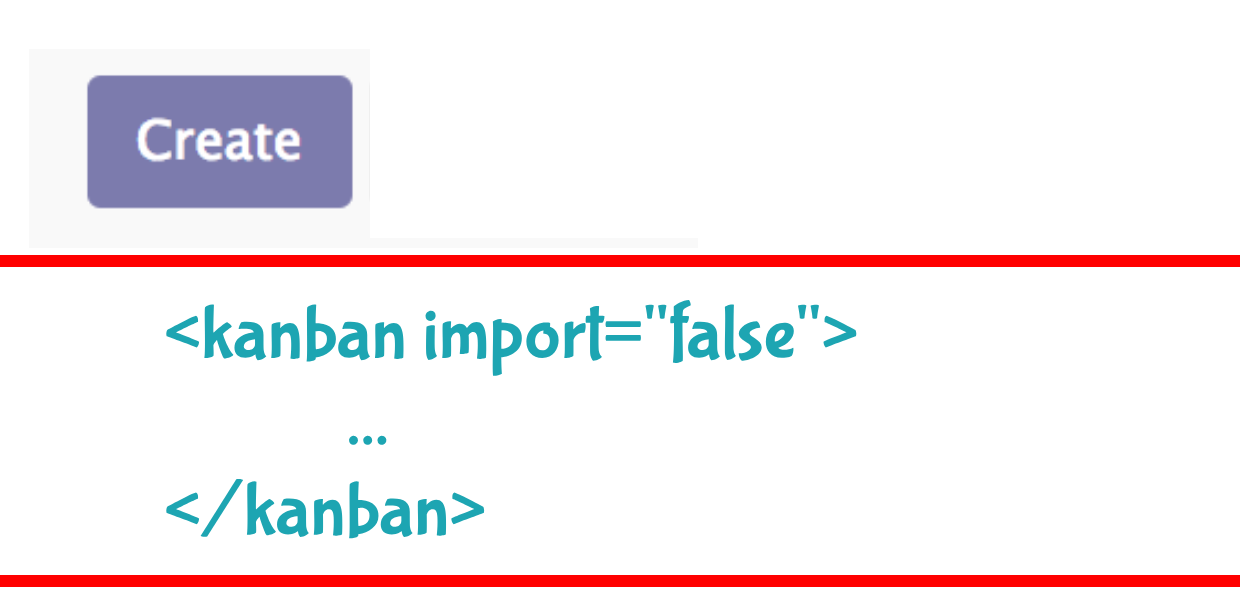
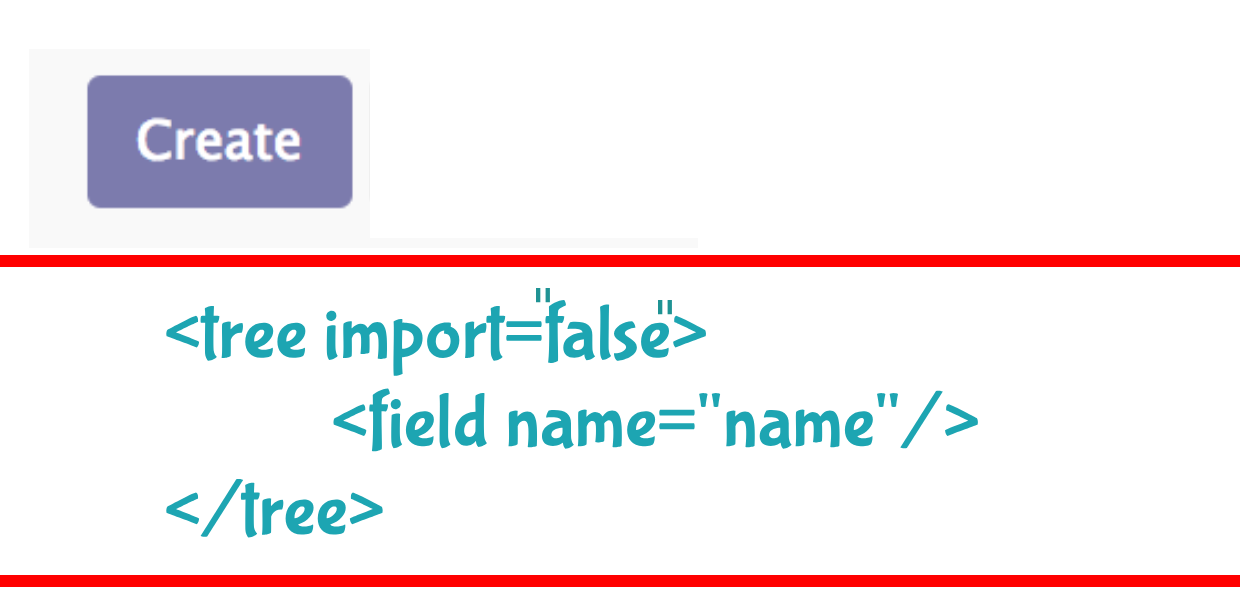
Push on Git of Version 9.0 on Import Button Attribute

diff --git a/display_import_button/static/description/index.html b/display_import_button/static/description/index.html
@@ -27,3 +27,29 @@
         </div>
     </div>
 </section>
+
+<section class="oe_container oe_dark">
+    <div class="oe_row oe_spaced">
+        <h2 class="oe_slogan" style="color:#875A7B;">SLife Organization</h2>
+        <h3 class="oe_slogan">Make Your Life Simple (Simplify your Life)</h3>
+        <h4 class="oe_slogan">Abidjan, Cote d'Ivoire</h4>
+        <div class="text-justify">
+          <table style="margin:auto;">
+            <tr>
+              <td style="padding-right: 5%;">
+                <a
+                class="btn btn-primary btn-lg mt8" style="color: #FFFFFF !important;border-radius: 0;"
+                href="mailto:frejusarnaud@gmail.com" target="_blank"><i
+                class="fa fa-phone"></i> Contact Us </a>
+              </td>
+              <td style="padding-left: 5%;">
+                <a
+                class="btn btn-primary btn-lg mt8" style="color: #FFFFFF !important;border-radius: 0;"
+                href="https://apps.odoo.com/apps/modules/browse?search=slife+organization" target="_blank"><i
+                class="fa fa-suitcase"></i> Other SLife Organization Addons </a>
+              </td>
+            </tr>
+          </table>
+        </div>
+    </div>
+</section>

diff --git a/display_import_button/__openerp__.py b/display_import_button/__openerp__.py
@@ -2,18 +2,17 @@
 {
 	'name': "Remove Import Button",
 	'sequence': 0,
-	'summary': """Use To Display or Not Import Button on Your Tree and Kanban Views""",
+	'summary': """Use To Display or Not Import Button on Your Tree Views""",
 	'description': """
 		This module is used to manage the display of the "import" button on your
-		list, form, kanban view, according to your needs.
+		tree view, according to your needs.
 	""",
-	'author': "AKA AMICHIA FREJUS ARNAUD",
+	'author': "SLife Organization, Odoo Community Association (OCA)",
 	'category': 'web',
 	'version': '1.0',
 	'license': 'AGPL-3',
-	'depends': ['web'],
+	'depends': ['base_import'],
 	'images': [
-		'static/src/img/main_1.png',
 		'static/src/img/main_screenshot.png'
 	],
 	'qweb': ['static/src/xml/template.xml'],
